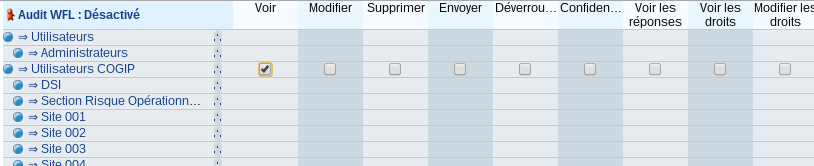
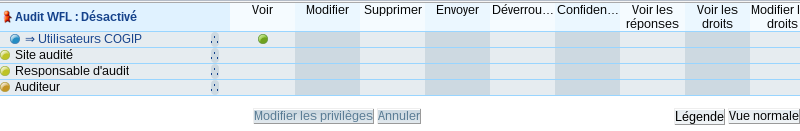
update wfl security

diff --git a/Contents/40-Cycle/40-securite.md b/Contents/40-Cycle/40-securite.md
@@ -88,7 +88,6 @@ La liste des transitions présentée sur le document tient compte du profil de l
 ## Profil des étapes {#quickstart:99be7d83-d8c0-407f-894a-b44e1df6bfa4}
 
 Vous allez maintenant ajouter des profils de document au différentes étapes.
-<span class="fixme inline flag">t'as pas mis les droits aux admins sur toutes les étapes.</span>
 
 ### Création des profils {#quickstart:88533bb0-692a-4d4e-a61d-d5fbc29a4e78}
 
@@ -126,7 +125,7 @@ Cliquez sur `Activer`. La page se recharge. Cliquez sur `Accessibilités`.
 
 Remplissez la matrice comme ci-dessous :
 
-![ Profil Audit : Planifié ](40-40-pdoc-brouillon.png "Profil Audit : Planifié")
+![ Profil Audit : Planifié ](40-40-pdoc-planif.png "Profil Audit : Planifié")
 
 Cliquez sur `Modifier les privilèges`.
 
@@ -183,6 +182,8 @@ Vous devez obtenir un fichier `./COGIP_AUDIT/COGIP_AUDIT_AUDIT__PARAM.csv` sembl
 
 ![ Export cycle de vie avec sécurité ](40-40-security-param.png "Export cycle de vie avec sécurité")
 
+Vous pouvez trouver le fichier complété dans [les sources][tuto_audit_param].
+
 ## Conclusion {#quickstart:c4e5ebfa-74b7-4565-819d-34537af6317e}
 
 Vous savez maintenant paramétrer les éléments de sécurité associés au cycle de vie.
@@ -190,6 +191,7 @@ Vous pouvez définir qui peut effectuer quelle transition et qui peut _voir_/_mo
 
 ## Voir aussi {#quickstart:44b393d1-c6ad-448b-997d-e9cc1d47fd89}
 
+-   [Les sources après ce chapitre][tuto_zip],
 -   [Import profil cycle de vie][DocCSVWFL],
 -   [Profil de document][DocProfilDocument].
 
@@ -199,3 +201,5 @@ Vous pouvez définir qui peut effectuer quelle transition et qui peut _voir_/_mo
 [DocCSVWFL]: https://docs.anakeen.com/dynacase/3.2/dynacase-doc-core-reference/website/book/core-ref:e0d99925-df0d-4d51-8ebc-d44c4dd03873.html#core-ref:e0d99925-df0d-4d51-8ebc-d44c4dd03873 "Documentation : Import cycle de vie"
 [ParamDroit]: #quickstart:1cd2c714-d287-4ca6-8282-c5a20393c0ea
 [ExportCycle]: #quickstart:6633ab3c-ab35-48ad-93a9-71898bfad9f3
+[tuto_zip]: https://github.com/Anakeen/dynacase-quick-start-code/archive/after-40-40.zip
+[tuto_audit_param]: https://github.com/Anakeen/dynacase-quick-start-code/blob/after-40-40/COGIP_AUDIT/COGIP_AUDIT_AUDIT__PARAM.csv#L4-L13
